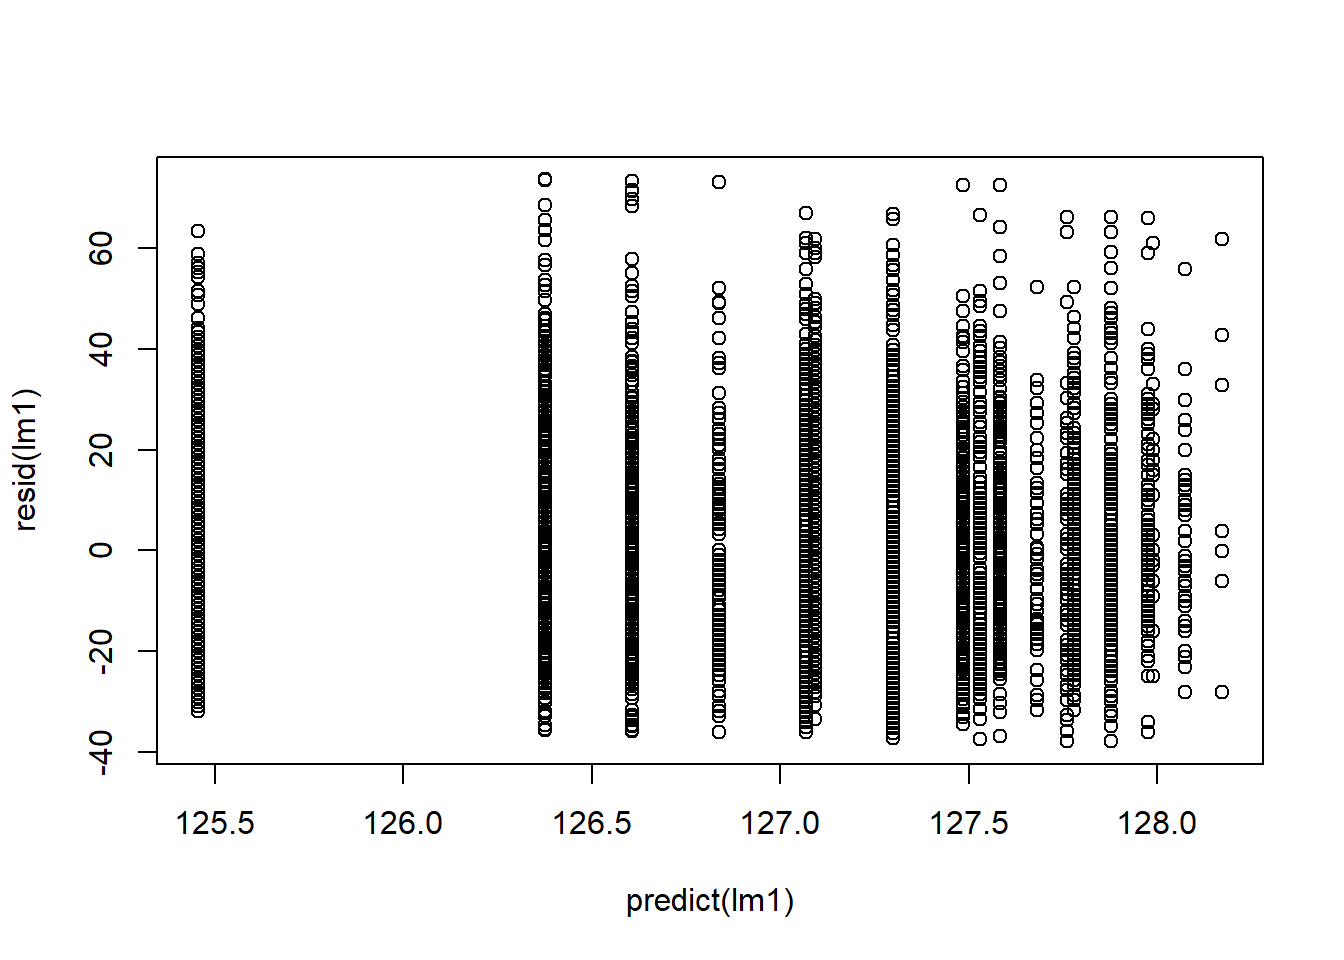
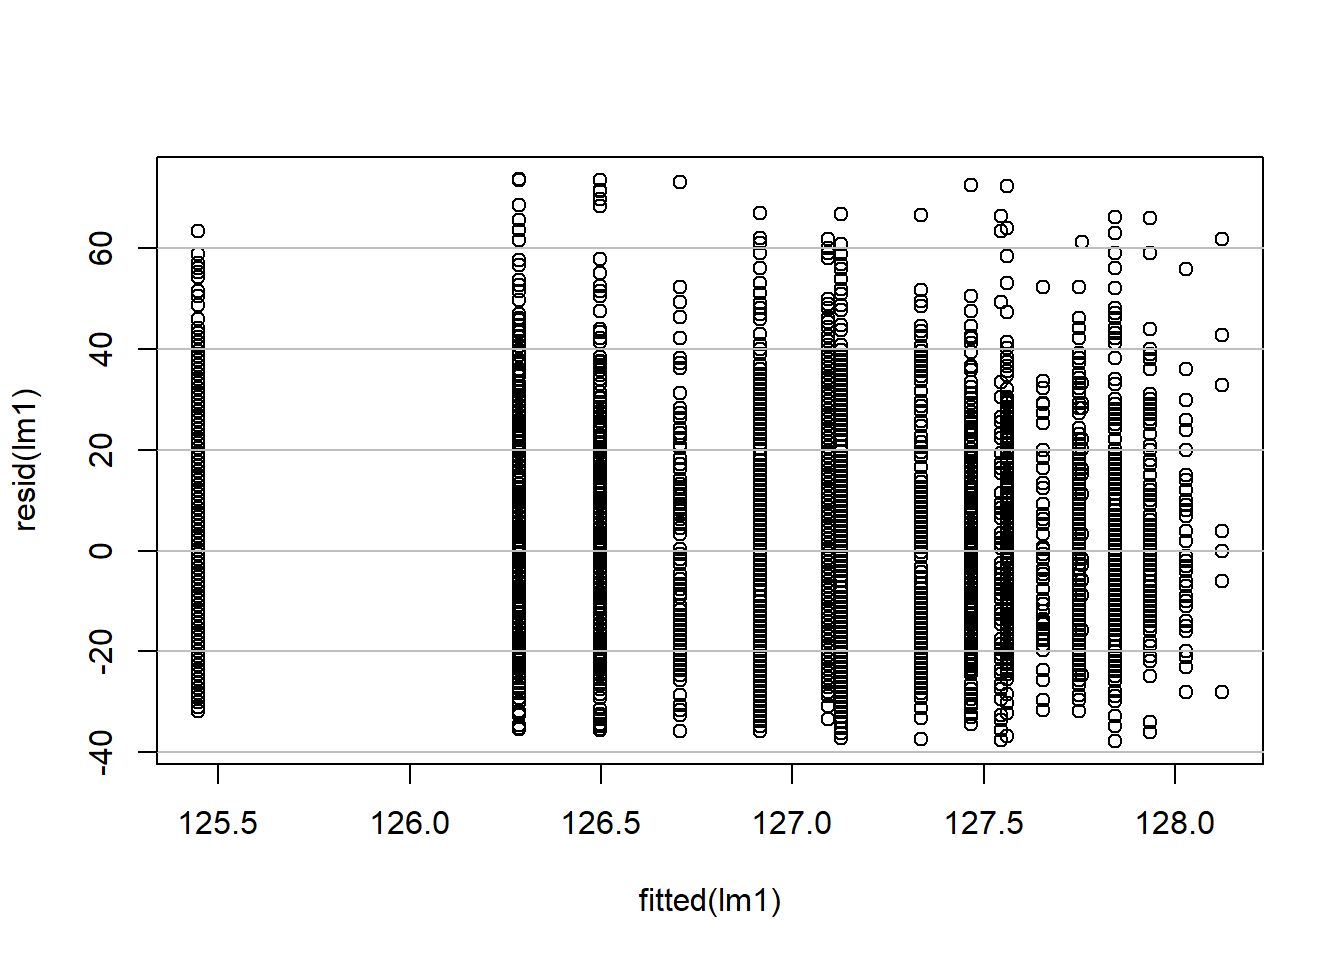
Built site for gh-pages

diff --git a/22.html b/22.html
@@ -1512,67 +1512,69 @@ SBP_V3 0.4144435 0.4759167 1.0000000</code></pre>
 </div>
 </div>
 </div>
+<div class="cell">
+<div class="sourceCode cell-code" id="cb62"><pre class="sourceCode r code-with-copy"><code class="sourceCode r"><span id="cb62-1"><a href="#cb62-1" aria-hidden="true" tabindex="-1"></a>longwaylong <span class="ot">&lt;-</span> longway[<span class="fu">complete.cases</span>(longway[, <span class="fu">c</span>(<span class="st">"sbp"</span>, <span class="st">"YearsFromV1"</span>, <span class="st">"sex"</span>, <span class="st">"HTN"</span>, <span class="st">"age"</span>, <span class="st">"BMI"</span>)]), ]</span></code><button title="Copy to Clipboard" class="code-copy-button"><i class="bi"></i></button></pre></div>
+</div>
 </section>
 <section id="chapters-5-and-6" class="level3">
 <h3 class="anchored" data-anchor-id="chapters-5-and-6">Chapters 5 and 6</h3>
 <div class="cell">
-<div class="sourceCode cell-code" id="cb62"><pre class="sourceCode r code-with-copy"><code class="sourceCode r"><span id="cb62-1"><a href="#cb62-1" aria-hidden="true" tabindex="-1"></a>lm1 <span class="ot">&lt;-</span> <span class="fu">lm</span>(sbp <span class="sc">~</span> YearsFromV1<span class="sc">*</span>sex, <span class="at">data =</span> longway)</span>
-<span id="cb62-2"><a href="#cb62-2" aria-hidden="true" tabindex="-1"></a><span class="fu">summary</span>(lm1)</span></code><button title="Copy to Clipboard" class="code-copy-button"><i class="bi"></i></button></pre></div>
+<div class="sourceCode cell-code" id="cb63"><pre class="sourceCode r code-with-copy"><code class="sourceCode r"><span id="cb63-1"><a href="#cb63-1" aria-hidden="true" tabindex="-1"></a>lm1 <span class="ot">&lt;-</span> <span class="fu">lm</span>(sbp <span class="sc">~</span> YearsFromV1<span class="sc">*</span>sex, <span class="at">data =</span> longwaylong)</span>
+<span id="cb63-2"><a href="#cb63-2" aria-hidden="true" tabindex="-1"></a><span class="fu">summary</span>(lm1)</span></code><button title="Copy to Clipboard" class="code-copy-button"><i class="bi"></i></button></pre></div>
 <div class="cell-output cell-output-stdout">
 <pre><code>
 Call:
-lm(formula = sbp ~ YearsFromV1 * sex, data = longway)
+lm(formula = sbp ~ YearsFromV1 * sex, data = longwaylong)
 
 Residuals:
     Min      1Q  Median      3Q     Max 
--37.877 -12.069  -2.299   9.504  73.623 
+-37.842 -11.936  -2.126   9.464  73.714 
 
 Coefficients:
                      Estimate Std. Error t value Pr(&gt;|t|)    
-(Intercept)         125.45593    0.39715 315.890   &lt;2e-16 ***
-YearsFromV1           0.23039    0.07416   3.107   0.0019 ** 
-sexMale               1.63607    0.65447   2.500   0.0124 *  
-YearsFromV1:sexMale  -0.13222    0.12285  -1.076   0.2818    
+(Intercept)         125.44626    0.39630 316.547  &lt; 2e-16 ***
+YearsFromV1           0.21001    0.07423   2.829  0.00468 ** 
+sexMale               1.64729    0.65279   2.523  0.01164 *  
+YearsFromV1:sexMale  -0.11645    0.12283  -0.948  0.34312    
 ---
 Signif. codes:  0 '***' 0.001 '**' 0.01 '*' 0.05 '.' 0.1 ' ' 1
 
-Residual standard error: 17.45 on 7946 degrees of freedom
-  (9 observations deleted due to missingness)
-Multiple R-squared:  0.002225,  Adjusted R-squared:  0.001848 
-F-statistic: 5.907 on 3 and 7946 DF,  p-value: 0.0005066</code></pre>
+Residual standard error: 17.38 on 7869 degrees of freedom
+Multiple R-squared:  0.002166,  Adjusted R-squared:  0.001786 
+F-statistic: 5.694 on 3 and 7869 DF,  p-value: 0.0006851</code></pre>
 </div>
-<div class="sourceCode cell-code" id="cb64"><pre class="sourceCode r code-with-copy"><code class="sourceCode r"><span id="cb64-1"><a href="#cb64-1" aria-hidden="true" tabindex="-1"></a>mflongway <span class="ot">&lt;-</span> <span class="fu">model.frame</span>(lm1)</span>
-<span id="cb64-2"><a href="#cb64-2" aria-hidden="true" tabindex="-1"></a></span>
-<span id="cb64-3"><a href="#cb64-3" aria-hidden="true" tabindex="-1"></a>gls1 <span class="ot">&lt;-</span> <span class="fu">gls</span>(sbp <span class="sc">~</span> YearsFromV1<span class="sc">*</span>sex, <span class="at">data =</span> mflongway)</span>
-<span id="cb64-4"><a href="#cb64-4" aria-hidden="true" tabindex="-1"></a><span class="fu">summary</span>(gls1)</span></code><button title="Copy to Clipboard" class="code-copy-button"><i class="bi"></i></button></pre></div>
+<div class="sourceCode cell-code" id="cb65"><pre class="sourceCode r code-with-copy"><code class="sourceCode r"><span id="cb65-1"><a href="#cb65-1" aria-hidden="true" tabindex="-1"></a>mflongway <span class="ot">&lt;-</span> <span class="fu">model.frame</span>(lm1)</span>
+<span id="cb65-2"><a href="#cb65-2" aria-hidden="true" tabindex="-1"></a></span>
+<span id="cb65-3"><a href="#cb65-3" aria-hidden="true" tabindex="-1"></a>gls1 <span class="ot">&lt;-</span> <span class="fu">gls</span>(sbp <span class="sc">~</span> YearsFromV1<span class="sc">*</span>sex, <span class="at">data =</span> mflongway)</span>
+<span id="cb65-4"><a href="#cb65-4" aria-hidden="true" tabindex="-1"></a><span class="fu">summary</span>(gls1)</span></code><button title="Copy to Clipboard" class="code-copy-button"><i class="bi"></i></button></pre></div>
 <div class="cell-output cell-output-stdout">
 <pre><code>Generalized least squares fit by REML
   Model: sbp ~ YearsFromV1 * sex 
   Data: mflongway 
        AIC      BIC    logLik
-  68040.48 68075.39 -34015.24
+  67317.66 67352.51 -33653.83
 
 Coefficients:
-                        Value Std.Error   t-value p-value
-(Intercept)         125.45593 0.3971505 315.89011  0.0000
-YearsFromV1           0.23039 0.0741638   3.10653  0.0019
-sexMale               1.63607 0.6544722   2.49984  0.0124
-YearsFromV1:sexMale  -0.13222 0.1228544  -1.07626  0.2818
+                        Value Std.Error  t-value p-value
+(Intercept)         125.44626 0.3962955 316.5473  0.0000
+YearsFromV1           0.21001 0.0742284   2.8292  0.0047
+sexMale               1.64729 0.6527888   2.5235  0.0116
+YearsFromV1:sexMale  -0.11645 0.1228282  -0.9481  0.3431
 
  Correlation: 
                     (Intr) YrsFV1 sexMal
-YearsFromV1         -0.784              
-sexMale             -0.607  0.476       
-YearsFromV1:sexMale  0.473 -0.604 -0.785
+YearsFromV1         -0.782              
+sexMale             -0.607  0.475       
+YearsFromV1:sexMale  0.473 -0.604 -0.783
 
 Standardized residuals:
        Min         Q1        Med         Q3        Max 
--2.1703086 -0.6915146 -0.1317325  0.5445704  4.2184453 
+-2.1771067 -0.6866705 -0.1223307  0.5444611  4.2408591 
 
-Residual standard error: 17.45252 
-Degrees of freedom: 7950 total; 7946 residual</code></pre>
+Residual standard error: 17.38179 
+Degrees of freedom: 7873 total; 7869 residual</code></pre>
 </div>
-<div class="sourceCode cell-code" id="cb66"><pre class="sourceCode r code-with-copy"><code class="sourceCode r"><span id="cb66-1"><a href="#cb66-1" aria-hidden="true" tabindex="-1"></a><span class="fu">head</span>(<span class="fu">model.matrix</span>(lm1))</span></code><button title="Copy to Clipboard" class="code-copy-button"><i class="bi"></i></button></pre></div>
+<div class="sourceCode cell-code" id="cb67"><pre class="sourceCode r code-with-copy"><code class="sourceCode r"><span id="cb67-1"><a href="#cb67-1" aria-hidden="true" tabindex="-1"></a><span class="fu">head</span>(<span class="fu">model.matrix</span>(lm1))</span></code><button title="Copy to Clipboard" class="code-copy-button"><i class="bi"></i></button></pre></div>
 <div class="cell-output cell-output-stdout">
 <pre><code>  (Intercept) YearsFromV1 sexMale YearsFromV1:sexMale
 1           1           0       1                   0
@@ -1584,36 +1586,25 @@ Degrees of freedom: 7950 total; 7946 residual</code></pre>
 </div>
 </div>
 <div class="cell">
-<div class="sourceCode cell-code" id="cb68"><pre class="sourceCode r code-with-copy"><code class="sourceCode r"><span id="cb68-1"><a href="#cb68-1" aria-hidden="true" tabindex="-1"></a><span class="fu">anova</span>(lm1)</span></code><button title="Copy to Clipboard" class="code-copy-button"><i class="bi"></i></button></pre></div>
+<div class="sourceCode cell-code" id="cb69"><pre class="sourceCode r code-with-copy"><code class="sourceCode r"><span id="cb69-1"><a href="#cb69-1" aria-hidden="true" tabindex="-1"></a><span class="fu">anova</span>(lm1)</span></code><button title="Copy to Clipboard" class="code-copy-button"><i class="bi"></i></button></pre></div>
 <div class="cell-output cell-output-stdout">
 <pre><code>Analysis of Variance Table
 
 Response: sbp
                   Df  Sum Sq Mean Sq F value   Pr(&gt;F)   
-YearsFromV1        1    2872 2871.96  9.4289 0.002143 **
-sex                1    2173 2172.82  7.1336 0.007581 **
-YearsFromV1:sex    1     353  352.82  1.1583 0.281845   
-Residuals       7946 2420276  304.59                    
+YearsFromV1        1    2409 2408.96  7.9734 0.004759 **
+sex                1    2481 2480.70  8.2108 0.004175 **
+YearsFromV1:sex    1     272  271.57  0.8989 0.343116   
+Residuals       7869 2377433  302.13                    
 ---
 Signif. codes:  0 '***' 0.001 '**' 0.01 '*' 0.05 '.' 0.1 ' ' 1</code></pre>
 </div>
 </div>
 <div class="cell">
-<div class="sourceCode cell-code" id="cb70"><pre class="sourceCode r code-with-copy"><code class="sourceCode r"><span id="cb70-1"><a href="#cb70-1" aria-hidden="true" tabindex="-1"></a><span class="co">#ch6 p118</span></span>
-<span id="cb70-2"><a href="#cb70-2" aria-hidden="true" tabindex="-1"></a><span class="fu">plot</span>(<span class="fu">fitted</span>(lm1), <span class="fu">resid</span>(lm1)) <span class="co">#Raw residuals for model lm1 residuals vs fitted values</span></span>
-<span id="cb70-3"><a href="#cb70-3" aria-hidden="true" tabindex="-1"></a><span class="fu">abline</span>(<span class="at">h =</span> <span class="fu">seq</span>(<span class="sc">-</span><span class="dv">100</span>, <span class="dv">100</span>, <span class="at">by =</span> <span class="dv">20</span>), <span class="at">col =</span> <span class="st">"grey"</span>)</span>
-<span id="cb70-4"><a href="#cb70-4" aria-hidden="true" tabindex="-1"></a><span class="fu">abline</span>(<span class="at">v =</span> <span class="fu">seq</span>(<span class="dv">0</span>, <span class="dv">100</span>, <span class="at">by =</span> <span class="dv">10</span>), <span class="at">col =</span> <span class="st">"grey"</span>)</span></code><button title="Copy to Clipboard" class="code-copy-button"><i class="bi"></i></button></pre></div>
-<div class="cell-output-display">
-<div>
-<figure class="figure">
-<p><img src="22_files/figure-html/unnamed-chunk-23-1.png" class="img-fluid figure-img" width="672"></p>
-</figure>
-</div>
-</div>
-</div>
-<div class="cell">
-<div class="sourceCode cell-code" id="cb71"><pre class="sourceCode r code-with-copy"><code class="sourceCode r"><span id="cb71-1"><a href="#cb71-1" aria-hidden="true" tabindex="-1"></a><span class="do">##Raw residuals for model lm1 residuals vs fitted values, normal qq plot</span></span>
-<span id="cb71-2"><a href="#cb71-2" aria-hidden="true" tabindex="-1"></a><span class="fu">plot</span>(<span class="fu">predict</span>(lm1), <span class="fu">resid</span>(lm1))</span></code><button title="Copy to Clipboard" class="code-copy-button"><i class="bi"></i></button></pre></div>
+<div class="sourceCode cell-code" id="cb71"><pre class="sourceCode r code-with-copy"><code class="sourceCode r"><span id="cb71-1"><a href="#cb71-1" aria-hidden="true" tabindex="-1"></a><span class="co">#ch6 p118</span></span>
+<span id="cb71-2"><a href="#cb71-2" aria-hidden="true" tabindex="-1"></a><span class="fu">plot</span>(<span class="fu">fitted</span>(lm1), <span class="fu">resid</span>(lm1)) <span class="co">#Raw residuals for model lm1 residuals vs fitted values</span></span>
+<span id="cb71-3"><a href="#cb71-3" aria-hidden="true" tabindex="-1"></a><span class="fu">abline</span>(<span class="at">h =</span> <span class="fu">seq</span>(<span class="sc">-</span><span class="dv">100</span>, <span class="dv">100</span>, <span class="at">by =</span> <span class="dv">20</span>), <span class="at">col =</span> <span class="st">"grey"</span>)</span>
+<span id="cb71-4"><a href="#cb71-4" aria-hidden="true" tabindex="-1"></a><span class="fu">abline</span>(<span class="at">v =</span> <span class="fu">seq</span>(<span class="dv">0</span>, <span class="dv">100</span>, <span class="at">by =</span> <span class="dv">10</span>), <span class="at">col =</span> <span class="st">"grey"</span>)</span></code><button title="Copy to Clipboard" class="code-copy-button"><i class="bi"></i></button></pre></div>
 <div class="cell-output-display">
 <div>
 <figure class="figure">
@@ -1621,12 +1612,103 @@ Signif. codes:  0 '***' 0.001 '**' 0.01 '*' 0.05 '.' 0.1 ' ' 1</code></pre>
 </figure>
 </div>
 </div>
-<div class="sourceCode cell-code" id="cb72"><pre class="sourceCode r code-with-copy"><code class="sourceCode r"><span id="cb72-1"><a href="#cb72-1" aria-hidden="true" tabindex="-1"></a><span class="fu">qqnorm</span>(<span class="fu">resid</span>(lm1))</span>
-<span id="cb72-2"><a href="#cb72-2" aria-hidden="true" tabindex="-1"></a><span class="fu">qqline</span>(<span class="fu">resid</span>(lm1))</span></code><button title="Copy to Clipboard" class="code-copy-button"><i class="bi"></i></button></pre></div>
+</div>
+<div class="cell">
+<div class="sourceCode cell-code" id="cb72"><pre class="sourceCode r code-with-copy"><code class="sourceCode r"><span id="cb72-1"><a href="#cb72-1" aria-hidden="true" tabindex="-1"></a><span class="do">##Raw residuals for model lm1 residuals vs fitted values, normal qq plot</span></span>
+<span id="cb72-2"><a href="#cb72-2" aria-hidden="true" tabindex="-1"></a><span class="fu">plot</span>(<span class="fu">predict</span>(lm1), <span class="fu">resid</span>(lm1))</span></code><button title="Copy to Clipboard" class="code-copy-button"><i class="bi"></i></button></pre></div>
 <div class="cell-output-display">
 <div>
 <figure class="figure">
-<p><img src="22_files/figure-html/unnamed-chunk-24-2.png" class="img-fluid figure-img" width="672"></p>
+<p><img src="22_files/figure-html/unnamed-chunk-25-1.png" class="img-fluid figure-img" width="672"></p>
+</figure>
+</div>
+</div>
+<div class="sourceCode cell-code" id="cb73"><pre class="sourceCode r code-with-copy"><code class="sourceCode r"><span id="cb73-1"><a href="#cb73-1" aria-hidden="true" tabindex="-1"></a><span class="fu">qqnorm</span>(<span class="fu">resid</span>(lm1))</span>
+<span id="cb73-2"><a href="#cb73-2" aria-hidden="true" tabindex="-1"></a><span class="fu">qqline</span>(<span class="fu">resid</span>(lm1))</span></code><button title="Copy to Clipboard" class="code-copy-button"><i class="bi"></i></button></pre></div>
+<div class="cell-output-display">
+<div>
+<figure class="figure">
+<p><img src="22_files/figure-html/unnamed-chunk-25-2.png" class="img-fluid figure-img" width="672"></p>
+</figure>
+</div>
+</div>
+</div>
+<div class="cell">
+<div class="sourceCode cell-code" id="cb74"><pre class="sourceCode r code-with-copy"><code class="sourceCode r"><span id="cb74-1"><a href="#cb74-1" aria-hidden="true" tabindex="-1"></a>lm2 <span class="ot">&lt;-</span> <span class="fu">lm</span>(sbp <span class="sc">~</span> YearsFromV1<span class="sc">*</span>sex <span class="sc">+</span> HTN <span class="sc">+</span> age <span class="sc">+</span> BMI, <span class="at">data =</span> longwaylong)</span>
+<span id="cb74-2"><a href="#cb74-2" aria-hidden="true" tabindex="-1"></a><span class="fu">summary</span>(lm2)</span></code><button title="Copy to Clipboard" class="code-copy-button"><i class="bi"></i></button></pre></div>
+<div class="cell-output cell-output-stdout">
+<pre><code>
+Call:
+lm(formula = sbp ~ YearsFromV1 * sex + HTN + age + BMI, data = longwaylong)
+
+Residuals:
+    Min      1Q  Median      3Q     Max 
+-46.465 -10.499  -1.064   9.282  73.921 
+
+Coefficients:
+                     Estimate Std. Error t value Pr(&gt;|t|)    
+(Intercept)         103.83473    1.39693  74.331  &lt; 2e-16 ***
+YearsFromV1          -0.31436    0.06993  -4.495 7.05e-06 ***
+sexMale               2.77864    0.60588   4.586 4.59e-06 ***
+HTNYes               10.66936    0.41896  25.466  &lt; 2e-16 ***
+age                   0.27258    0.01694  16.087  &lt; 2e-16 ***
+BMI                   0.01787    0.02706   0.661    0.509    
+YearsFromV1:sexMale  -0.12400    0.11286  -1.099    0.272    
+---
+Signif. codes:  0 '***' 0.001 '**' 0.01 '*' 0.05 '.' 0.1 ' ' 1
+
+Residual standard error: 15.97 on 7866 degrees of freedom
+Multiple R-squared:  0.158, Adjusted R-squared:  0.1573 
+F-statistic: 245.9 on 6 and 7866 DF,  p-value: &lt; 2.2e-16</code></pre>
+</div>
+</div>
+<div class="cell">
+<div class="sourceCode cell-code" id="cb76"><pre class="sourceCode r code-with-copy"><code class="sourceCode r"><span id="cb76-1"><a href="#cb76-1" aria-hidden="true" tabindex="-1"></a><span class="fu">nobs</span>(lm1)</span></code><button title="Copy to Clipboard" class="code-copy-button"><i class="bi"></i></button></pre></div>
+<div class="cell-output cell-output-stdout">
+<pre><code>[1] 7873</code></pre>
+</div>
+<div class="sourceCode cell-code" id="cb78"><pre class="sourceCode r code-with-copy"><code class="sourceCode r"><span id="cb78-1"><a href="#cb78-1" aria-hidden="true" tabindex="-1"></a><span class="fu">nobs</span>(lm2)</span></code><button title="Copy to Clipboard" class="code-copy-button"><i class="bi"></i></button></pre></div>
+<div class="cell-output cell-output-stdout">
+<pre><code>[1] 7873</code></pre>
+</div>
+<div class="sourceCode cell-code" id="cb80"><pre class="sourceCode r code-with-copy"><code class="sourceCode r"><span id="cb80-1"><a href="#cb80-1" aria-hidden="true" tabindex="-1"></a><span class="fu">anova</span>(lm1, lm2)</span></code><button title="Copy to Clipboard" class="code-copy-button"><i class="bi"></i></button></pre></div>
+<div class="cell-output cell-output-stdout">
+<pre><code>Analysis of Variance Table
+
+Model 1: sbp ~ YearsFromV1 * sex
+Model 2: sbp ~ YearsFromV1 * sex + HTN + age + BMI
+  Res.Df     RSS Df Sum of Sq      F    Pr(&gt;F)    
+1   7869 2377433                                  
+2   7866 2006260  3    371174 485.09 &lt; 2.2e-16 ***
+---
+Signif. codes:  0 '***' 0.001 '**' 0.01 '*' 0.05 '.' 0.1 ' ' 1</code></pre>
+</div>
+</div>
+<div class="cell">
+<div class="sourceCode cell-code" id="cb82"><pre class="sourceCode r code-with-copy"><code class="sourceCode r"><span id="cb82-1"><a href="#cb82-1" aria-hidden="true" tabindex="-1"></a><span class="fu">plot</span>(<span class="fu">fitted</span>(lm2), <span class="fu">resid</span>(lm2)) <span class="co">#Raw residuals for model lm1 residuals vs fitted values</span></span>
+<span id="cb82-2"><a href="#cb82-2" aria-hidden="true" tabindex="-1"></a><span class="fu">abline</span>(<span class="at">h =</span> <span class="fu">seq</span>(<span class="sc">-</span><span class="dv">100</span>, <span class="dv">100</span>, <span class="at">by =</span> <span class="dv">20</span>), <span class="at">col =</span> <span class="st">"grey"</span>)</span>
+<span id="cb82-3"><a href="#cb82-3" aria-hidden="true" tabindex="-1"></a><span class="fu">abline</span>(<span class="at">v =</span> <span class="fu">seq</span>(<span class="dv">100</span>, <span class="dv">200</span>, <span class="at">by =</span> <span class="dv">10</span>), <span class="at">col =</span> <span class="st">"grey"</span>)</span></code><button title="Copy to Clipboard" class="code-copy-button"><i class="bi"></i></button></pre></div>
+<div class="cell-output-display">
+<div>
+<figure class="figure">
+<p><img src="22_files/figure-html/unnamed-chunk-28-1.png" class="img-fluid figure-img" width="672"></p>
+</figure>
+</div>
+</div>
+<div class="sourceCode cell-code" id="cb83"><pre class="sourceCode r code-with-copy"><code class="sourceCode r"><span id="cb83-1"><a href="#cb83-1" aria-hidden="true" tabindex="-1"></a><span class="fu">plot</span>(<span class="fu">predict</span>(lm2), <span class="fu">resid</span>(lm2))</span></code><button title="Copy to Clipboard" class="code-copy-button"><i class="bi"></i></button></pre></div>
+<div class="cell-output-display">
+<div>
+<figure class="figure">
+<p><img src="22_files/figure-html/unnamed-chunk-28-2.png" class="img-fluid figure-img" width="672"></p>
+</figure>
+</div>
+</div>
+<div class="sourceCode cell-code" id="cb84"><pre class="sourceCode r code-with-copy"><code class="sourceCode r"><span id="cb84-1"><a href="#cb84-1" aria-hidden="true" tabindex="-1"></a><span class="fu">qqnorm</span>(<span class="fu">resid</span>(lm2))</span>
+<span id="cb84-2"><a href="#cb84-2" aria-hidden="true" tabindex="-1"></a><span class="fu">qqline</span>(<span class="fu">resid</span>(lm2))</span></code><button title="Copy to Clipboard" class="code-copy-button"><i class="bi"></i></button></pre></div>
+<div class="cell-output-display">
+<div>
+<figure class="figure">
+<p><img src="22_files/figure-html/unnamed-chunk-28-3.png" class="img-fluid figure-img" width="672"></p>
 </figure>
 </div>
 </div>
